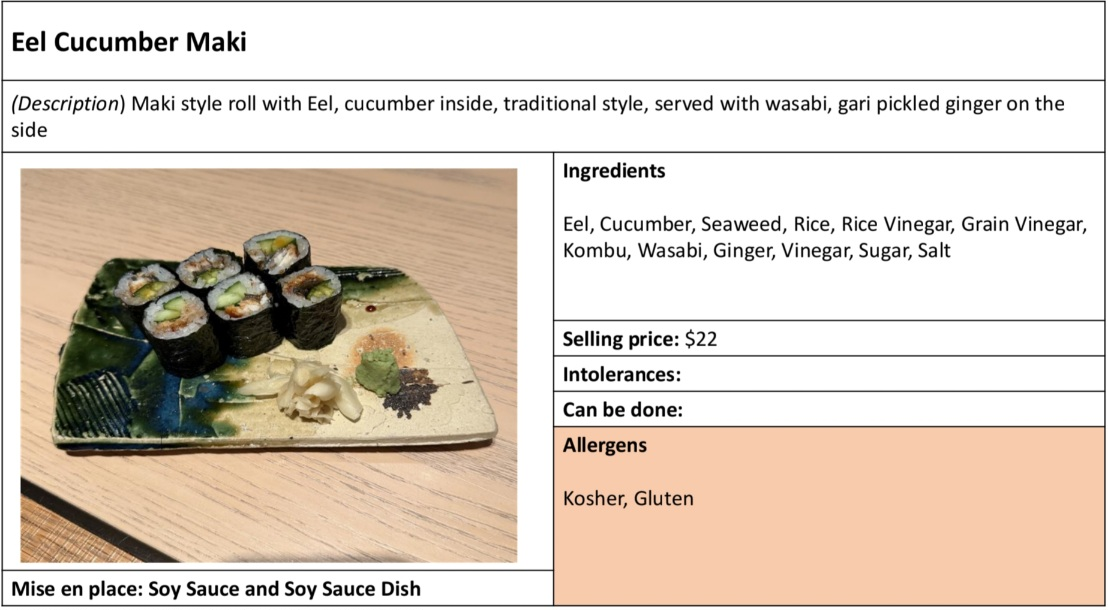
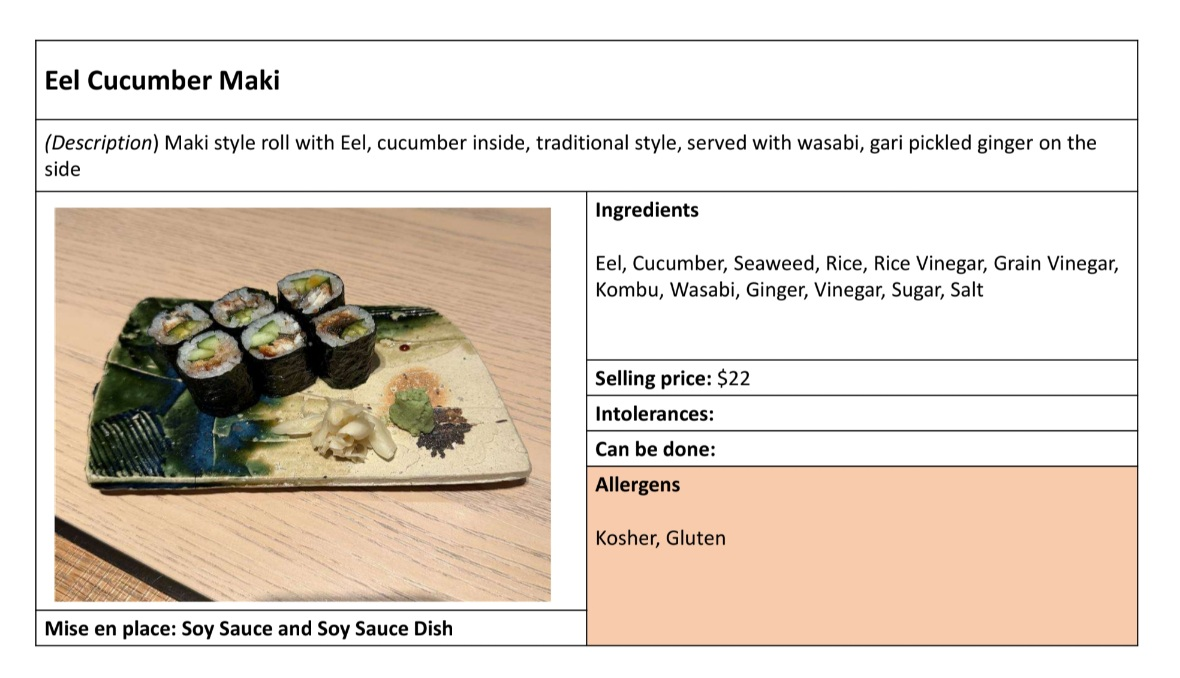
update pic: eel cucumber maki

Changed region(s): [[0.0, 0.0, 1.0, 0.9967], [0.2148, 0.8098, 0.2455, 0.841]]

diff --git a/app/manager/page.jsx b/app/manager/page.jsx
@@ -2939,7 +2939,7 @@ export default function ManagerDinnerPage() {
           <div className='modal-content'>
           
           <div>
-            <img src='unagi-cucumber-maki.jpg' />
+            <img src={`unagi-cucumber-maki.jpg?v={Date.now()}`} />
           </div>
           <div className='modal-text'>
                            
@@ -2948,12 +2948,12 @@ export default function ManagerDinnerPage() {
               <div className="right-column">
                   <div className="name-price">
                     <span>
-                      <span className="name">Unagi Cucumber Maki</span>
+                      <span className="name">Eel Cucumber Maki</span>
                       <span className="allergies"></span>
                     </span>
                     <span className="price">21</span>
                   </div>
-                  <div className="description1">Eel, Cucumber</div>
+                  <div className="description1"></div>
                   <div className="description2"></div>
                           <hr/>
                           <br/>

diff --git a/app/page.jsx b/app/page.jsx
@@ -3074,7 +3074,7 @@ appetizers, seasonal plates, and dessert.
           <div className='modal-content'>
           
           <div>
-            <img src='unagi-cucumber-maki.jpg' />
+            <img src={`unagi-cucumber-maki.jpg?v={Date.now()}`} />
           </div>
           <div className='modal-text'>
                            
@@ -3083,12 +3083,12 @@ appetizers, seasonal plates, and dessert.
               <div className="right-column">
                   <div className="name-price">
                     <span>
-                      <span className="name">Unagi Cucumber Maki</span>
+                      <span className="name">Eel Cucumber Maki</span>
                       <span className="allergies"></span>
                     </span>
                     <span className="price">21</span>
                   </div>
-                  <div className="description1">Eel, Cucumber</div>
+                  <div className="description1"></div>
                   <div className="description2"></div>
                           <hr/>
                           <br/>
